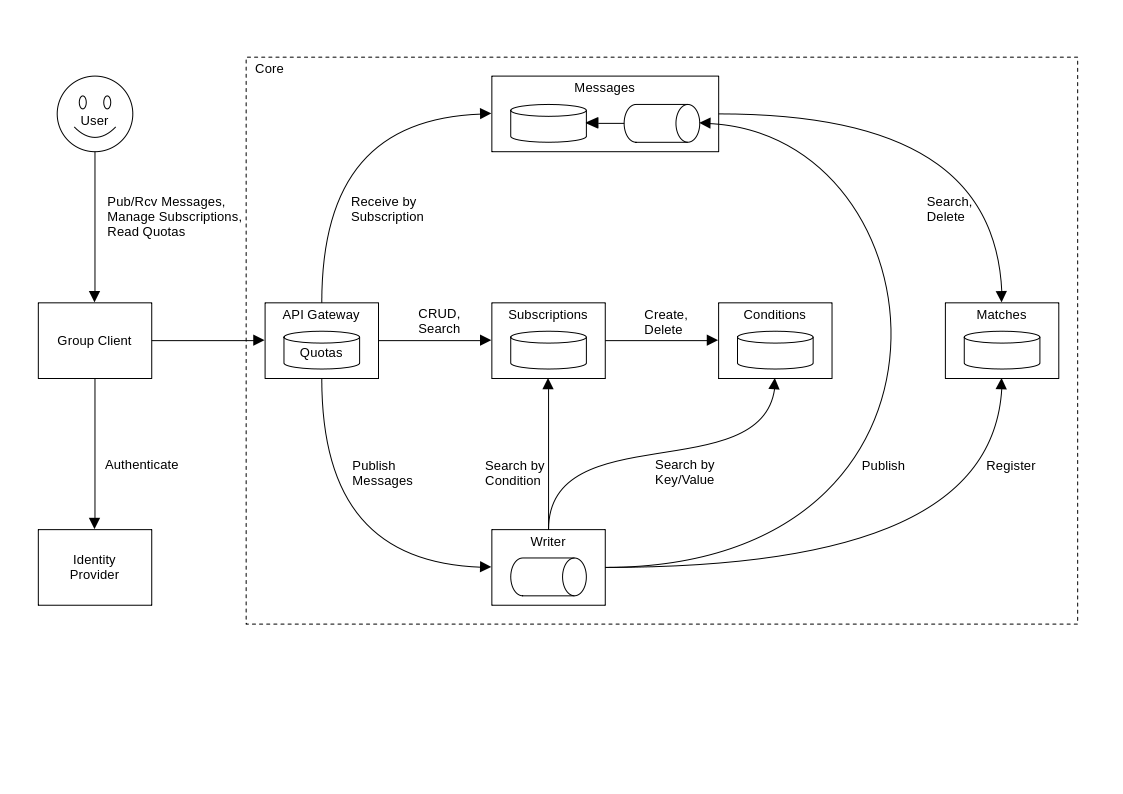
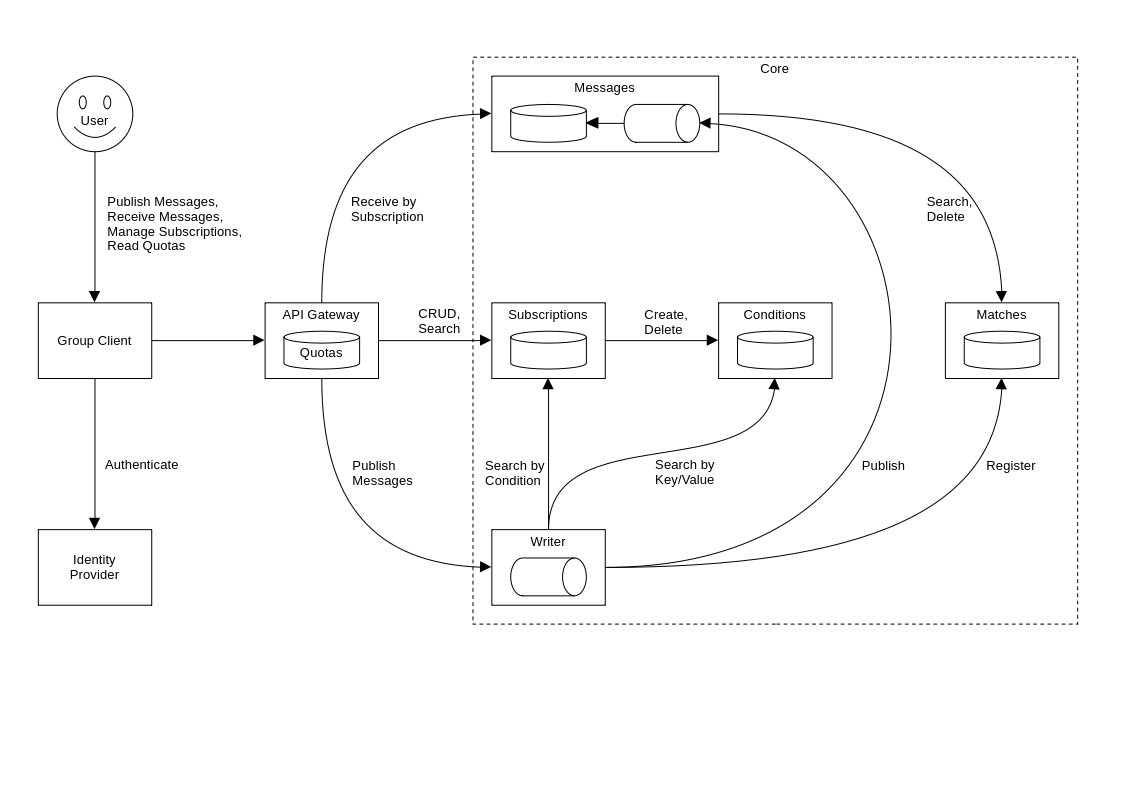
readme update

Changed region(s): [[0.0935, 0.2418, 0.2182, 0.3325], [0.6857, 0.0605, 0.7168, 0.0907], [0.2182, 0.0605, 0.2493, 0.0907]]

diff --git a/profile/README.md b/profile/README.md
@@ -104,7 +104,6 @@ The core of Awakari consist of:
 * Conditions, e.g. [Kiwi Tree](https://github.com/awakari/kiwi-tree)
 * [Matches](https://github.com/awakari/matches)
 * [Messages](https://github.com/awakari/messages)
-* [API Gateway](https://github.com/awakari/api-gateway)
 
 ![components](components.png)
 
